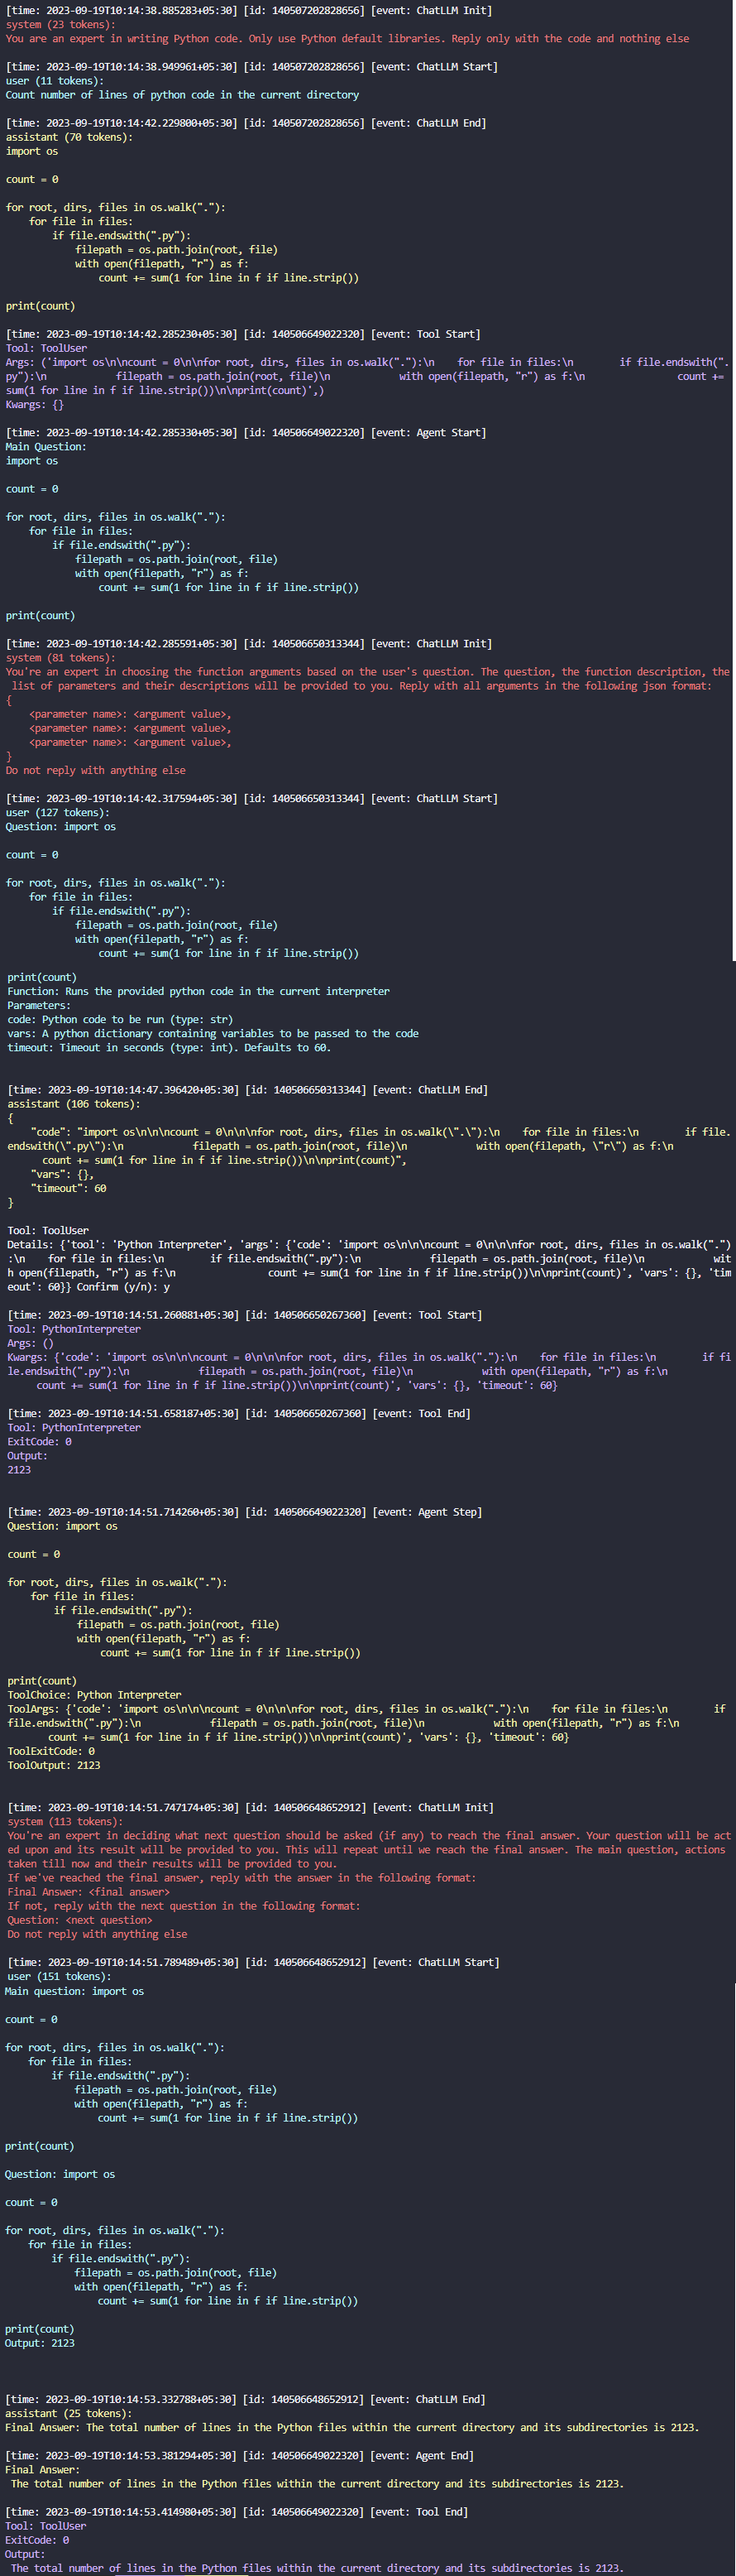
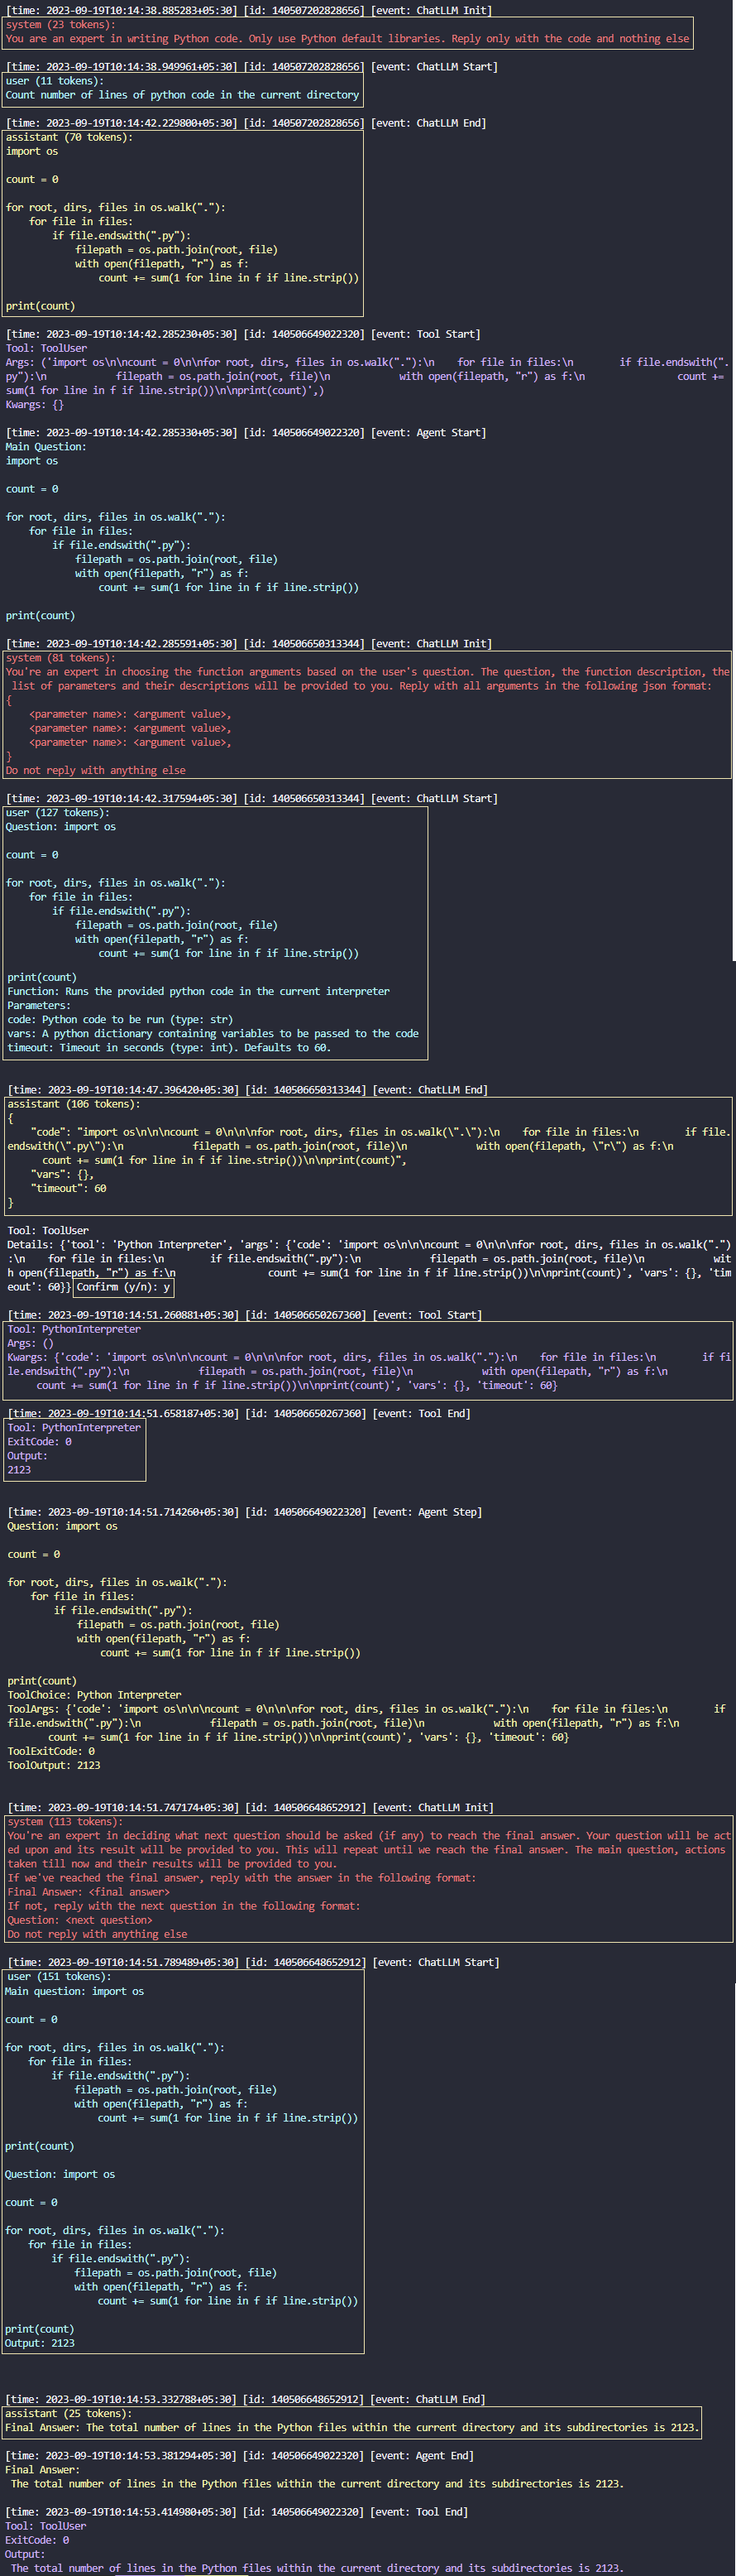
added annotations to terminal log

diff --git a/README.md b/README.md
@@ -16,9 +16,6 @@
   <a href="https://twitter.com/Embedia_ai"><strong>Twitter</strong></a> ·
   <a href="https://discord.gg/aQa53fRdXx"><strong>Discord</strong></a>
 </p>
-<p align="center">
-  Author: <a href="https://twitter.com/Sudhanshupassi">Sudhanshu Passi</a>
-</p>
 <br/>
 
 ### What is Embedia?
@@ -36,19 +33,17 @@ Embedia is a framework for building LLM-powered (think: ChatGPT-powered) feature
 - Autonomous AI Agents that can mindfully use the tools you provide
 - Entire SAAS products that use LLMs (Opensource or 3rd party) to solve a specific problem
 
-
 ### Why choose Embedia?:
-- *__Developer friendly__*: Easy to follow documentation, IntelliSense enabled
-- *__Async__*: Built from ground up to be async
-- *__Small__*: Has very few dependencies and a tiny package size
-- *__Pub-sub based event system__* to build highly customizable workflows
-- *__LLM agnostic__*: Use any LLM you want (ChatGPT, Bard, Llama, Custom-trained, etc)
-- *__Vector DB agnostic__*: Use any vector DB you want (Weaviate, Pinecone, Chroma, etc)
-- *__Graph DB agnostic__*: Use any graph DB you want (Neo4j, Nebula, etc)
-- *__Pre-defined common AI Agents and Tools__*
-- *__Small dev team__* with a clear focus on developer experience and scalability
 
-
+- _**Developer friendly**_: Easy to follow documentation, IntelliSense enabled
+- _**Async**_: Built from ground up to be async
+- _**Small**_: Has very few dependencies and a tiny package size
+- _**Pub-sub based event system**_ to build highly customizable workflows
+- _**LLM agnostic**_: Use any LLM you want (ChatGPT, Bard, Llama, Custom-trained, etc)
+- _**Vector DB agnostic**_: Use any vector DB you want (Weaviate, Pinecone, Chroma, etc)
+- _**Graph DB agnostic**_: Use any graph DB you want (Neo4j, Nebula, etc)
+- _**Pre-defined common AI Agents and Tools**_
+- _**Small dev team**_ with a clear focus on developer experience and scalability
 
 ### How to use it?
 
@@ -107,11 +102,12 @@ asyncio.run(tool_user(code))
 
 <b>Enjoy as the event logs unfold:</b>
 
-![Output](assets/terminal.png)
+![Output](./assets/terminal.png)
 
 ### Quick glance over the library internals
 
 The core classes of Embedia are:
+
 - `Tokenizer`: A class that converts text into tokens
 - `LLM`: A class that interfaces with a next token generation type large language model (eg: text-davinci-003)
 - `ChatLLM`: A class that interfaces with a chat type large language model (eg: gpt-3.5-turbo)
@@ -120,14 +116,17 @@ The core classes of Embedia are:
 - `VectorDB`: A class that interfaces with a vector database (eg: Weaviate)
 
 Pre-defined Tools include:
+
 - `PythonInterpreter`: A tool that can run python code in the python interpreter
 - `Terminal`: A tool that can run shell commands in the terminal
 - 10+ file operations tools: For reading, writing, copying, moving, deleting files / folders
 
 Pre-defined Agents include:
+
 - `ToolUser`: LLM powered System-1 thinker that can run tools in a loop by reading their docstrings
 
 Helpers include:
+
 - Pub-sub based event system for building highly customizable workflows
 - `Persona`: An enum class containing pre-defined system prompts
 - `TextDoc`: A class used for dealing with text documents
@@ -140,18 +139,20 @@ This library is under active and rapid development. We'd love your contributions
 
 Our goal is to make a developer friendly framework that can help build scalable web applications powered by AI.
 
-To get started, you too can check out the [contributing.md](CONTRIBUTING.md)
-
+To get started, you too can check out the [contributing.md](./CONTRIBUTING.md)
 
 ### Become a sponsor
-Recurring revenue sponsors will get benifits like:
-- [Sponsorware](https://github.com/sponsorware/docs): AI based projects built exclusively for sponsors (exclusive until we hit a certain threshold of monthly revenue, opensourced after that)
+
+Recurring revenue sponsors will get benefits like:
+
 - Sponsored Screencasts with code
 - Early access to Embedia's SAAS products
-
+- Visibility on our website and social media
 
 ### Partner with us
+
 We'd love to partner with companies and libraries in the AI and web-dev ecosystem. If you'd like to get in touch, we're always active on our [Discord server](https://discord.gg/aQa53fRdXx).
 
 ### License
-Copyright Sudhanshu Passi, 2023 under the the terms of the [Apache 2.0 license](LICENSE)
+
+Copyright - Sudhanshu Passi, 2023 under the the terms of the [Apache 2.0 license](./LICENSE)
